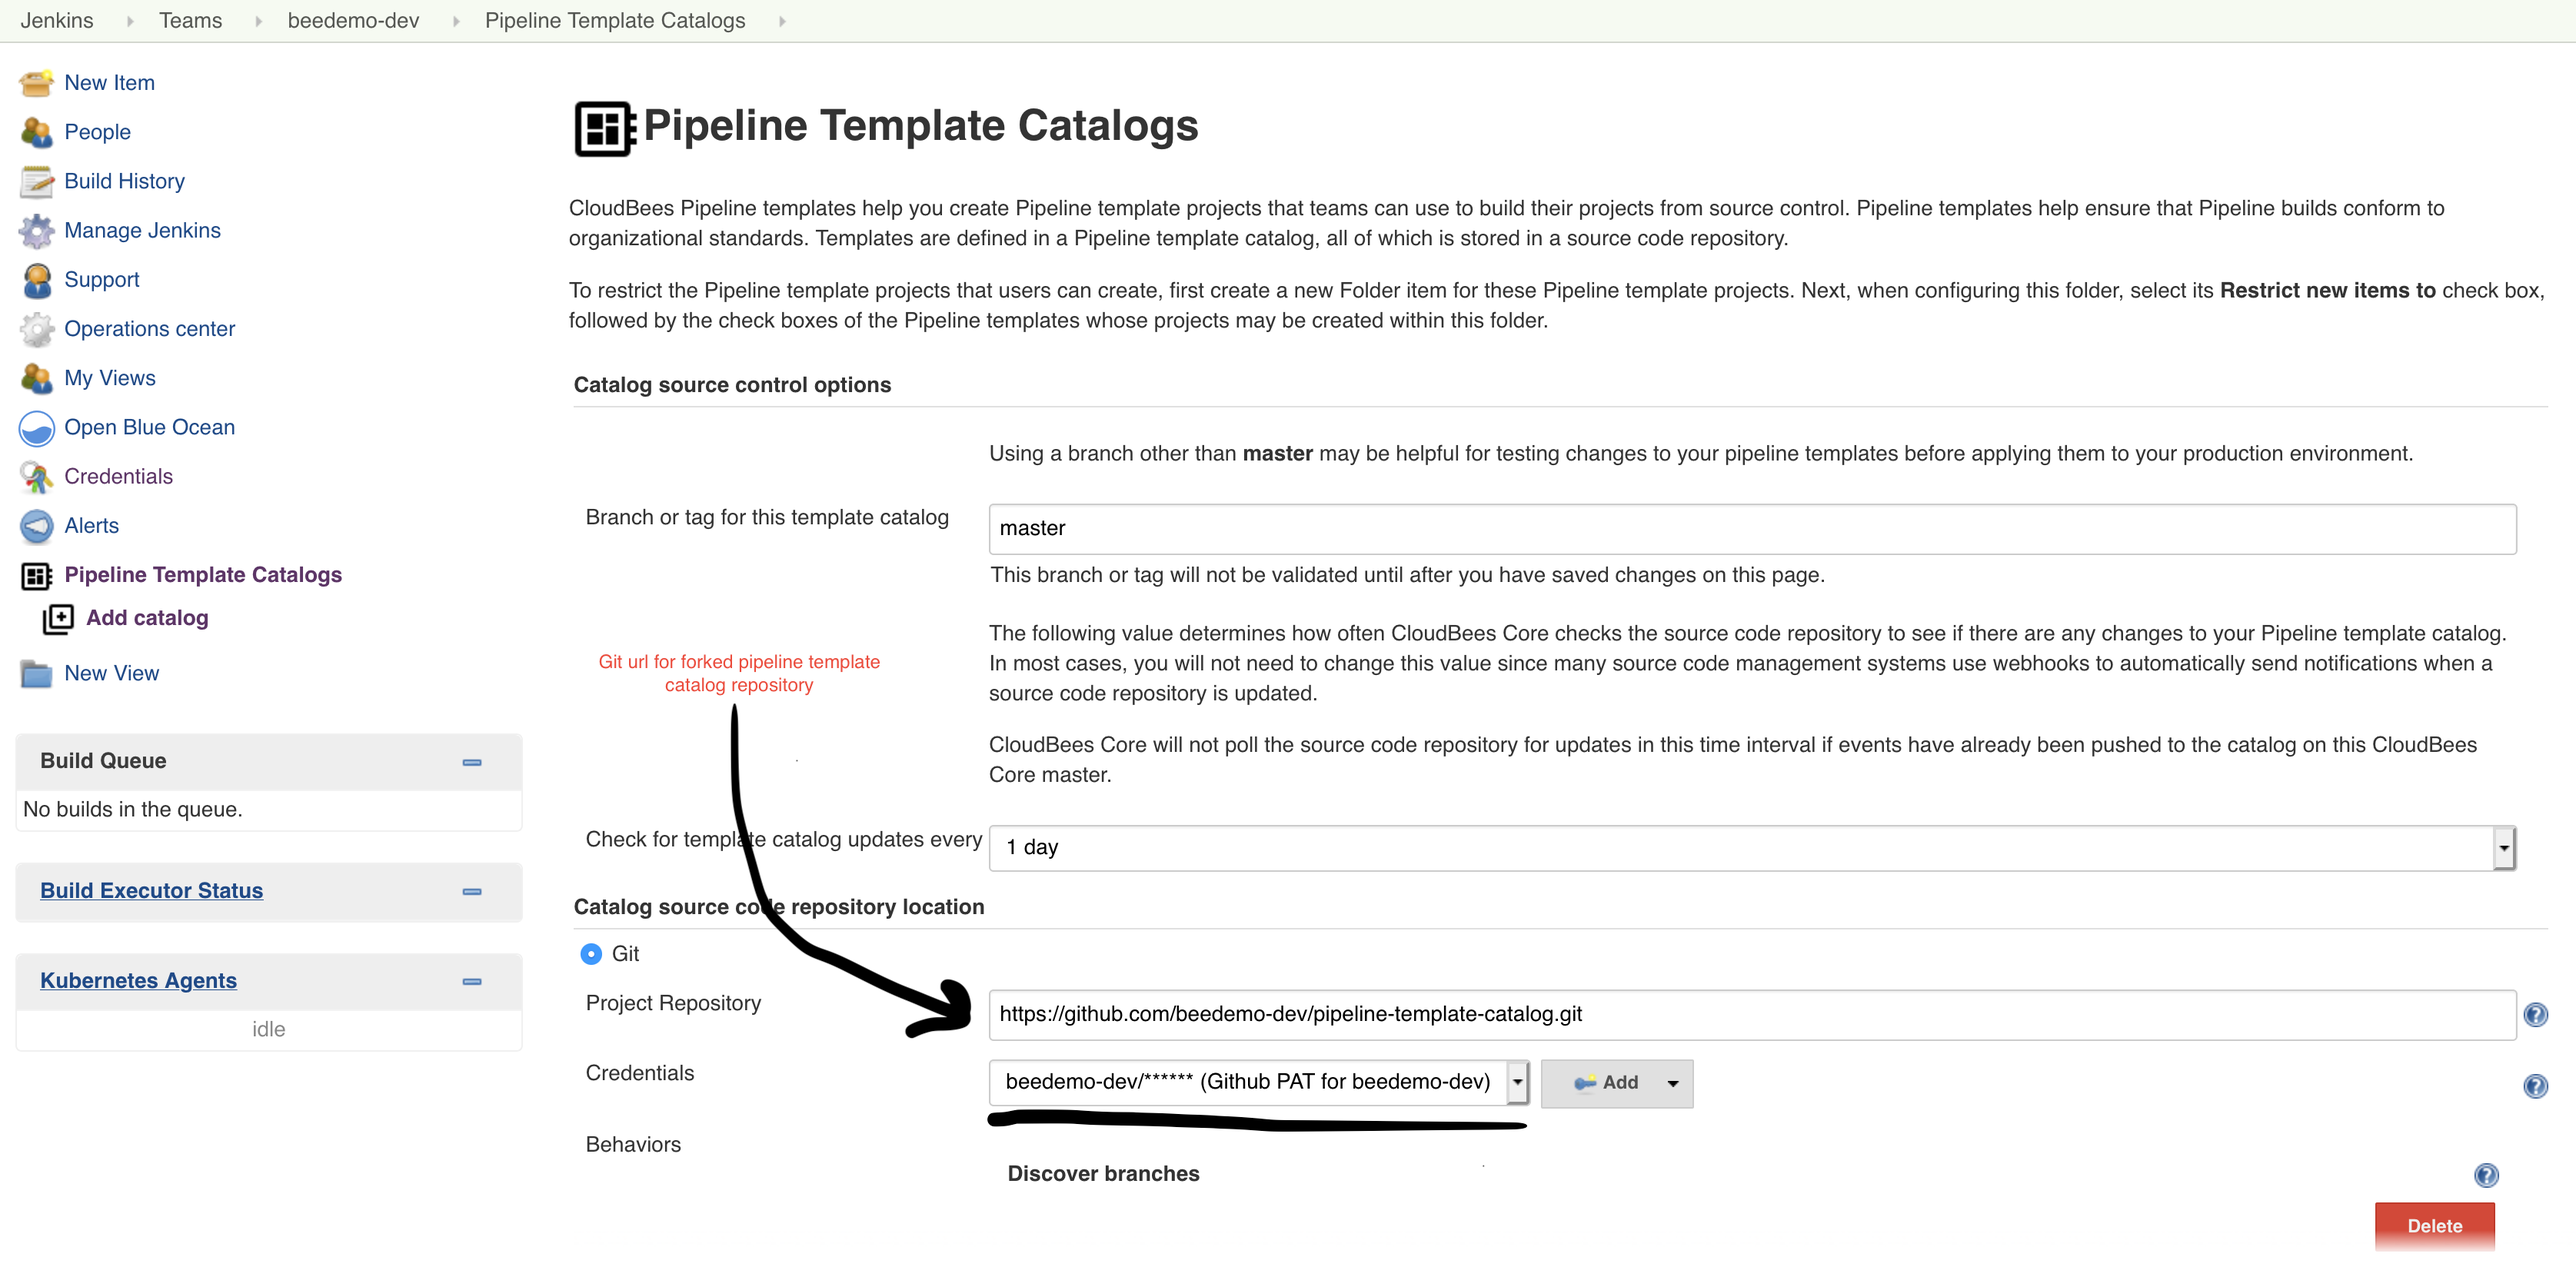
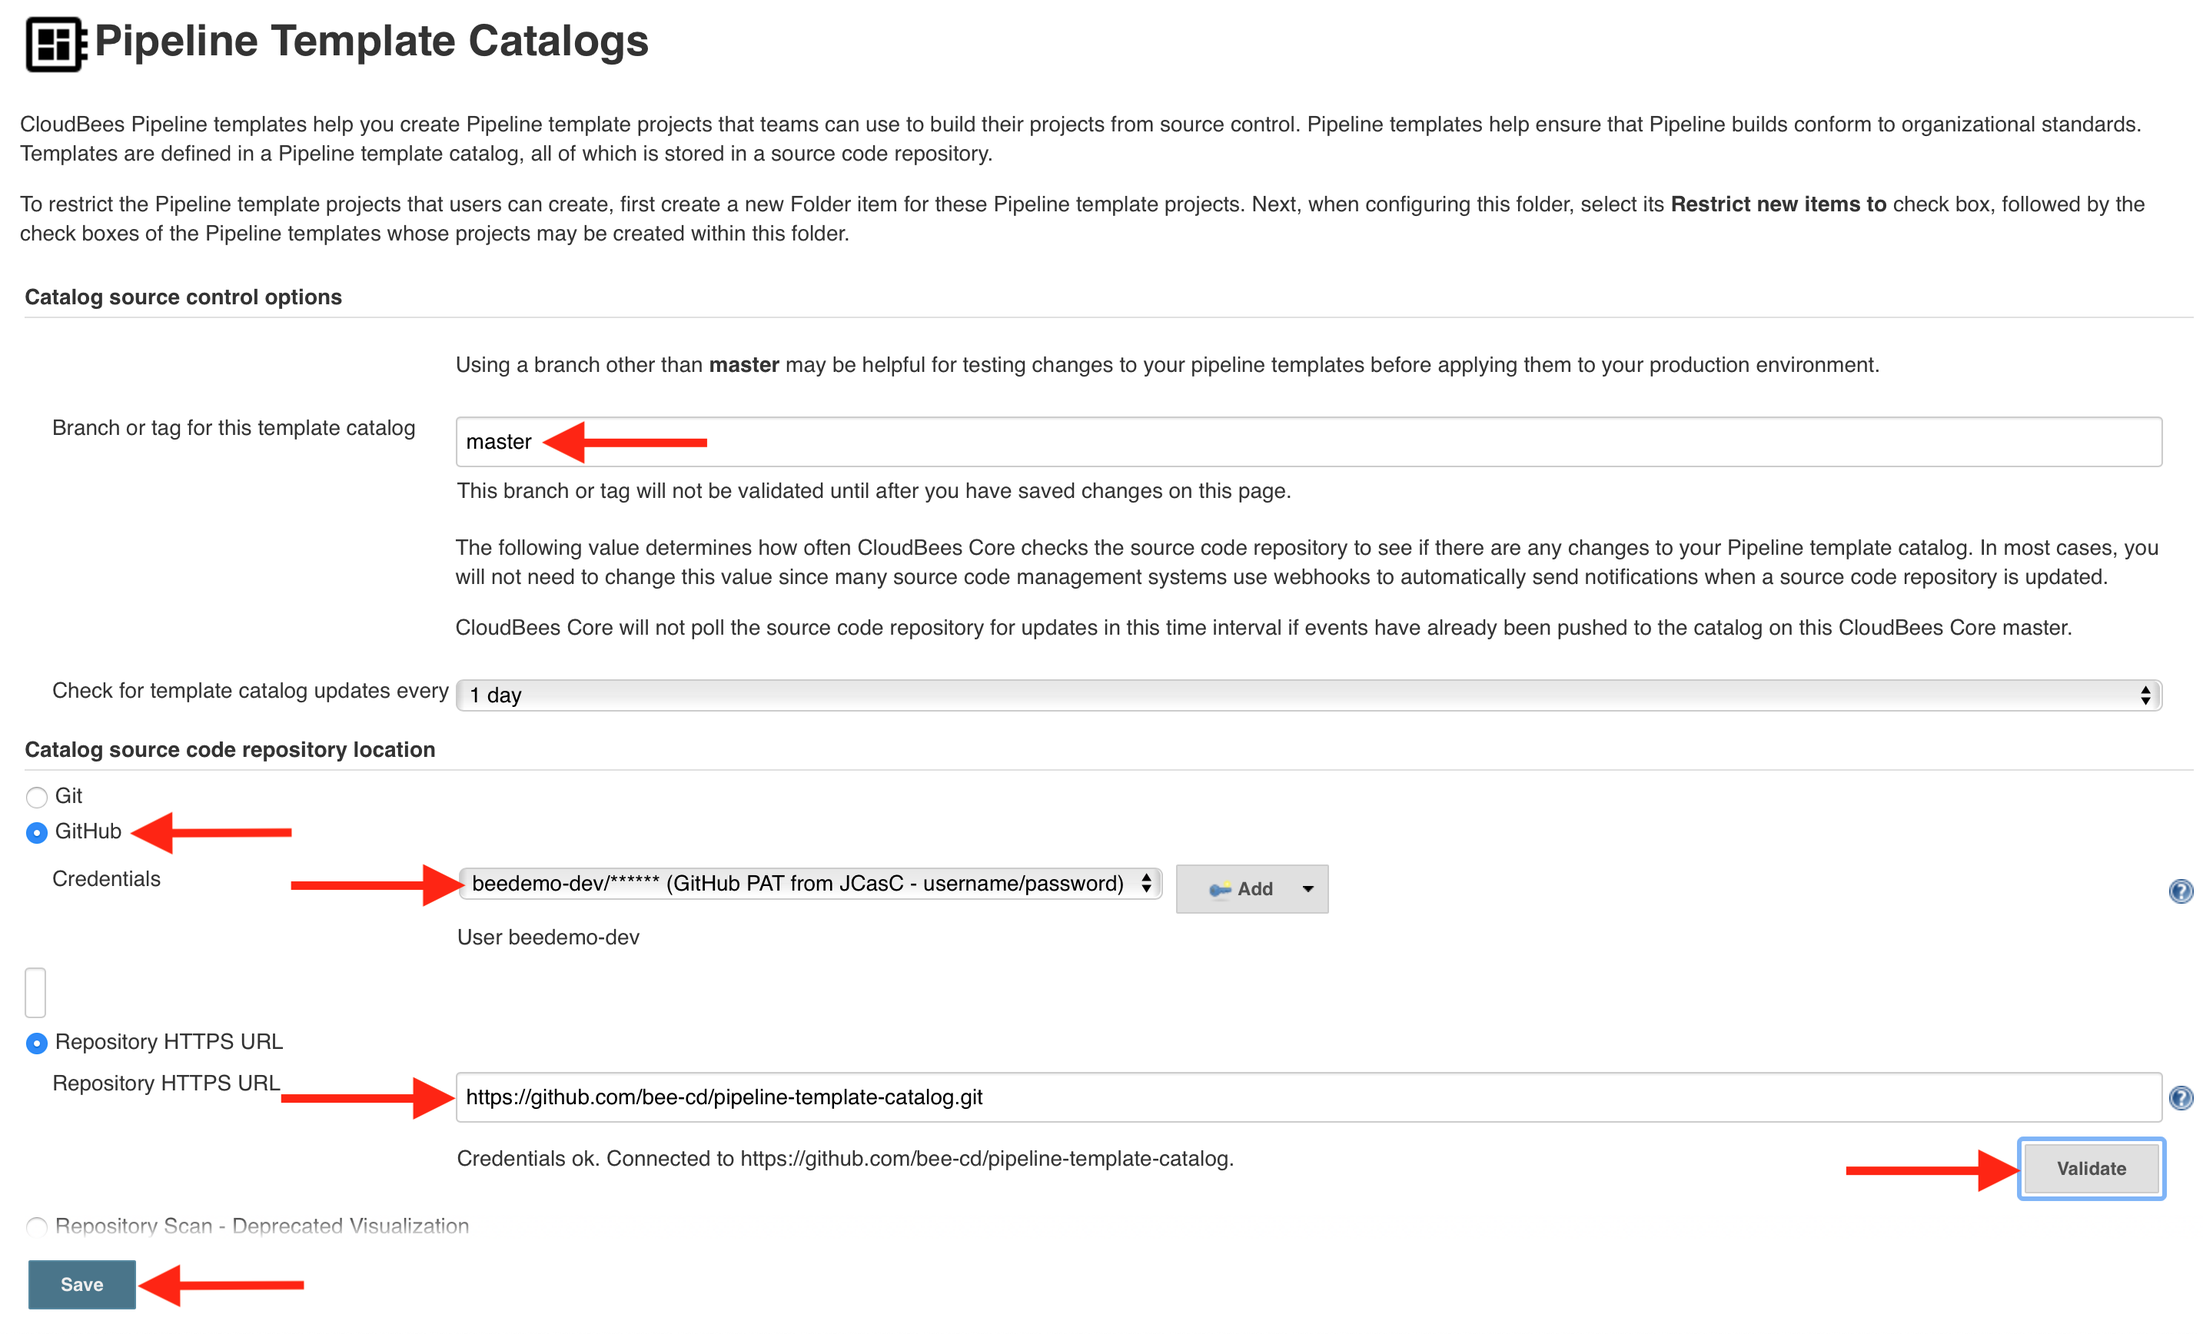
pipeline template updates

diff --git a/labs/pipeline-template-catalog/pipeline-template-catalog.md b/labs/pipeline-template-catalog/pipeline-template-catalog.md
@@ -5,10 +5,11 @@
 2. Click on **Add catalog**<p><img src="images/Add-template-click.png" width=800/>
 3. Fill out the catalog import parameters:
    1. **Branch or tag for this template catalog**: master
-   2. Check off **Git**
-   3. **Project Repository**: The Git URL for your forked Pipeline Template Catalog repository.
-   4. **Credentials**: select the *username/password* credential you created for the CloudBees Core workshop - it will show up as - `[GitHub username]/******`
-   5. Click the **Save** button<p><img src="images/Add-catalog-info.png" width=800/>
+   2. Select **GitHub** under **Catalog source code repository location**
+   3. **Credentials**: select the *username/password* credential you created for the CloudBees Core workshop - it will show up as - `[GitHub username]/******`
+   4. **Repository HTTPS URL**: The Git URL for your forked Pipeline Template Catalog repository.
+   5. Next, click the **Validate** button to ensure your credentials and repository URL are set correctly.
+   6. Finally, click the **Save** button <p><img src="images/add-catalog-info.png" width=800/>
 4. You should see the following once your catalog has been successfully imported<p><img src="images/Succesful-template-import.png" width=800/>
 5. Navigate back inside your team master and click in to the folder with your team name<p><img src="images/team-folder-click.png" width=800/>
 6. Click on the **New Item** link in the left menu<p><img src="images/new-item-click.png" width=800/>
@@ -18,7 +19,7 @@
 ## Create vue.js Job from Pipeline Template Catalog
 In this lab you will create a new Multibranch Pipeline job from the **VueJS** template provided by the Pipeline Template Catalog you added above - just by filling in a few parameters.
 
-1. On your Team Master navigate to the **template-jobs** folder that you created earlier.
+1. On your Team Master navigate to the **template-jobs** folder that you created in the previous lab.
 2. Click on the ***New VueJS*** link in the left menu. <p><img src="images/template_link.png" width=800/>
 3. Enter an item name of your **[GitHub username]-frontend**, select **VueJS**  and click the **OK** button. <p><img src="images/item_form.png" width=800/>
 4. Fill out the template parameters:
